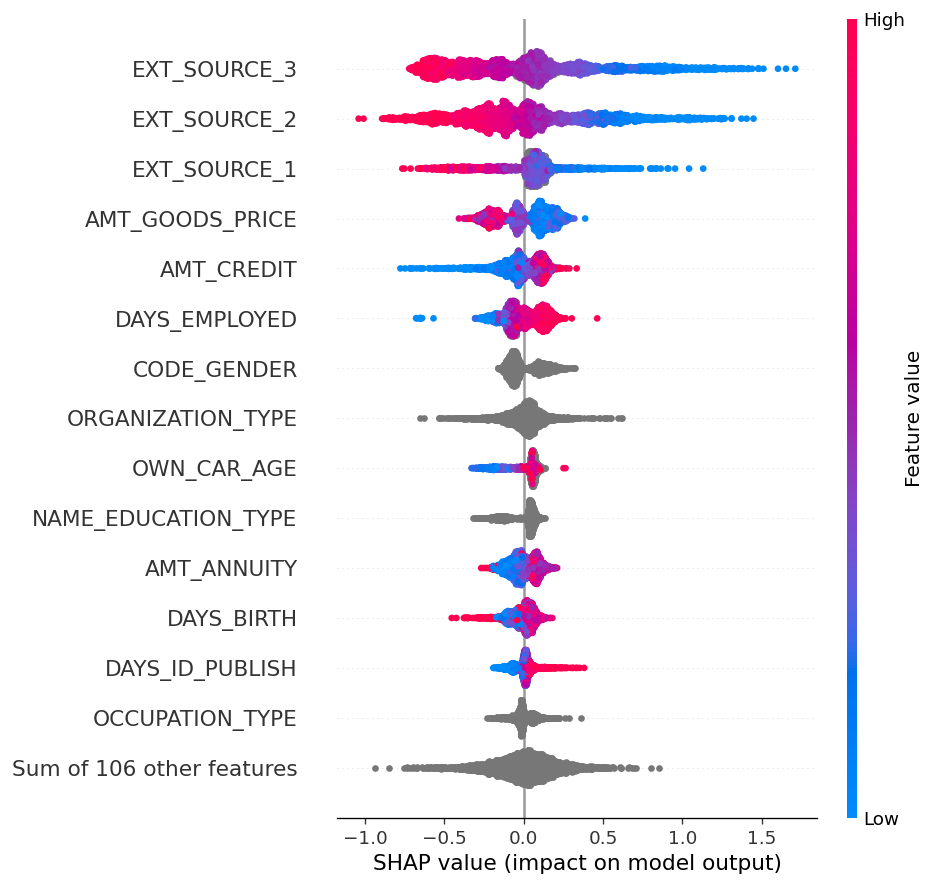
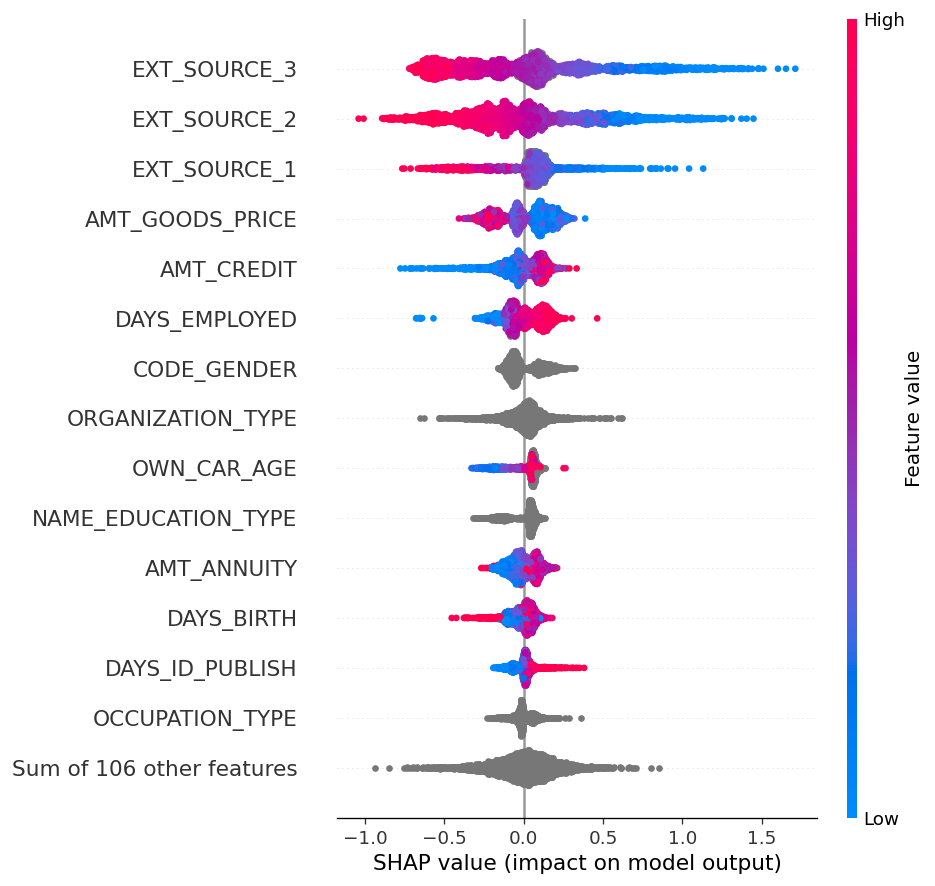
feat(api): FastAPI predict endpoint with PD, decision, reason codes and ECL

diff --git a/api/main.py b/api/main.py
@@ -1,0 +1,125 @@
+"""FastAPI credit-decision service: POST /predict scores one applicant end to end.
+
+Model artifacts (the trained LightGBM model, its category encodings, and training-set medians
+for reason-code phrasing) are loaded once at startup, not per request — retraining or reloading
+happens by restarting the service, not on the request path.
+"""
+
+from contextlib import asynccontextmanager
+
+import joblib
+import numpy as np
+import pandas as pd
+import shap
+from fastapi import FastAPI, HTTPException
+
+from api.schemas import ApplicantRequest, PredictResponse
+from src.config import (
+    CAT_DTYPES_PATH,
+    DECISION_THRESHOLD,
+    DEFAULT_LGD,
+    LGBM_MODEL_PATH,
+    TRAIN_MEDIANS_PATH,
+)
+from src.explain import reason_codes
+
+REQUIRED_ARTIFACTS = [LGBM_MODEL_PATH, TRAIN_MEDIANS_PATH, CAT_DTYPES_PATH]
+
+state: dict = {}
+
+
+@asynccontextmanager
+async def lifespan(app: FastAPI):
+    missing = [p for p in REQUIRED_ARTIFACTS if not p.exists()]
+    if missing:
+        raise RuntimeError(
+            f"Missing model artifacts: {[str(p) for p in missing]}. "
+            "Run `python -m src.train_lgbm` first."
+        )
+
+    state["model"] = joblib.load(LGBM_MODEL_PATH)
+    state["train_medians"] = joblib.load(TRAIN_MEDIANS_PATH)
+    state["cat_dtypes"] = joblib.load(CAT_DTYPES_PATH)
+    state["feature_names"] = state["model"].feature_name_
+    state["explainer"] = shap.TreeExplainer(state["model"])
+
+    yield
+    state.clear()
+
+
+app = FastAPI(
+    title="Credit Risk & IFRS 9 Engine",
+    description="PD scoring, SHAP reason codes, and IFRS 9 ECL for a single loan applicant.",
+    version="1.0.0",
+    lifespan=lifespan,
+)
+
+
+def applicant_to_row(req: ApplicantRequest, feature_names: list[str], cat_dtypes: dict) -> pd.DataFrame:
+    """Map the applicant form onto the model's raw Home Credit column names.
+
+    Fields the form doesn't ask for (most notably EXT_SOURCE_1/2/3 — external credit-bureau
+    scores a real system would fetch from a bureau API at application time, not ask the applicant
+    for) are left as NaN. LightGBM was trained on genuinely incomplete data and handles this via
+    its learned default split direction, the same as any other missing value.
+    """
+    raw = {
+        "NAME_CONTRACT_TYPE": req.contract_type,
+        "DAYS_BIRTH": -req.age_years * 365.25,
+        "DAYS_EMPLOYED": -req.years_employed * 365.25 if req.years_employed is not None else np.nan,
+        "AMT_INCOME_TOTAL": req.income_total,
+        "AMT_CREDIT": req.credit_amount,
+        "AMT_ANNUITY": req.annuity,
+        "AMT_GOODS_PRICE": req.goods_price if req.goods_price is not None else req.credit_amount,
+        "CODE_GENDER": req.gender,
+        "FLAG_OWN_CAR": "Y" if req.owns_car else "N",
+        "FLAG_OWN_REALTY": "Y" if req.owns_realty else "N",
+        "CNT_CHILDREN": req.num_children,
+        "CNT_FAM_MEMBERS": req.family_members,
+        "NAME_EDUCATION_TYPE": req.education,
+        "NAME_INCOME_TYPE": req.income_type,
+        "NAME_FAMILY_STATUS": req.family_status,
+        "OCCUPATION_TYPE": req.occupation,
+        "ORGANIZATION_TYPE": req.organization_type,
+        "REGION_POPULATION_RELATIVE": req.region_population_relative
+        if req.region_population_relative is not None
+        else np.nan,
+        "OWN_CAR_AGE": req.own_car_age if req.own_car_age is not None else np.nan,
+    }
+    row = pd.DataFrame([raw]).reindex(columns=feature_names)
+    for col, dtype in cat_dtypes.items():
+        row[col] = row[col].astype(dtype)
+    return row
+
+
+@app.get("/health")
+def health() -> dict:
+    return {"status": "ok", "model_loaded": "model" in state}
+
+
+@app.post("/predict", response_model=PredictResponse)
+def predict(req: ApplicantRequest) -> PredictResponse:
+    if "model" not in state:
+        raise HTTPException(status_code=503, detail="Model not loaded")
+
+    row = applicant_to_row(req, state["feature_names"], state["cat_dtypes"])
+    pd_estimate = float(state["model"].predict_proba(row)[0, 1])
+    decision = "decline" if pd_estimate >= DECISION_THRESHOLD else "approve"
+
+    explanation = state["explainer"](row)
+    shap_row = pd.Series(explanation.values[0], index=row.columns)
+    feature_row = row.iloc[0]
+    codes = reason_codes(shap_row, feature_row, state["train_medians"], top_n=3)
+
+    # a brand-new application has no origination-time PD to compare against, so it's Stage 1 by
+    # definition (see src/ecl.py for the staged, portfolio-level version used on existing loans)
+    ecl = pd_estimate * DEFAULT_LGD * req.credit_amount
+
+    return PredictResponse(
+        probability_of_default=round(pd_estimate, 4),
+        decision=decision,
+        decision_threshold=DECISION_THRESHOLD,
+        reason_codes=codes,
+        expected_credit_loss=round(ecl, 2),
+        lgd_assumption=DEFAULT_LGD,
+    )

diff --git a/tests/test_api.py b/tests/test_api.py
@@ -1,0 +1,97 @@
+import pytest
+from fastapi.testclient import TestClient
+
+from api.main import app
+
+VALID_APPLICANT = {
+    "age_years": 35,
+    "years_employed": 5,
+    "income_total": 180_000,
+    "credit_amount": 450_000,
+    "annuity": 22_500,
+    "gender": "F",
+    "owns_car": True,
+    "owns_realty": True,
+    "num_children": 1,
+    "family_members": 3,
+    "education": "Higher education",
+}
+
+
+@pytest.fixture
+def client():
+    with TestClient(app) as c:  # runs the lifespan, so the model actually loads
+        yield c
+
+
+def test_health_reports_model_loaded(client: TestClient) -> None:
+    response = client.get("/health")
+    assert response.status_code == 200
+    assert response.json() == {"status": "ok", "model_loaded": True}
+
+
+def test_predict_returns_all_expected_fields(client: TestClient) -> None:
+    response = client.post("/predict", json=VALID_APPLICANT)
+    assert response.status_code == 200
+
+    body = response.json()
+    assert 0.0 <= body["probability_of_default"] <= 1.0
+    assert body["decision"] in ("approve", "decline")
+    assert body["decision_threshold"] == pytest.approx(0.08)
+    assert len(body["reason_codes"]) == 3
+    assert body["expected_credit_loss"] >= 0
+    assert body["lgd_assumption"] == pytest.approx(0.45)
+
+
+def test_predict_decision_matches_threshold(client: TestClient) -> None:
+    response = client.post("/predict", json=VALID_APPLICANT)
+    body = response.json()
+
+    expected_decision = "decline" if body["probability_of_default"] >= body["decision_threshold"] else "approve"
+    assert body["decision"] == expected_decision
+
+
+def test_predict_riskier_profile_scores_higher_pd(client: TestClient) -> None:
+    """Young, no employment history, large loan relative to income vs an established applicant —
+    the riskier profile should score a higher PD. A real behavioural check, not just a shape check."""
+    safe_applicant = {**VALID_APPLICANT, "age_years": 45, "years_employed": 15, "income_total": 400_000}
+    risky_applicant = {
+        **VALID_APPLICANT,
+        "age_years": 21,
+        "years_employed": None,
+        "income_total": 60_000,
+        "credit_amount": 900_000,
+    }
+
+    safe_pd = client.post("/predict", json=safe_applicant).json()["probability_of_default"]
+    risky_pd = client.post("/predict", json=risky_applicant).json()["probability_of_default"]
+
+    assert risky_pd > safe_pd
+
+
+def test_predict_ecl_equals_pd_times_lgd_times_credit_amount(client: TestClient) -> None:
+    response = client.post("/predict", json=VALID_APPLICANT)
+    body = response.json()
+
+    # probability_of_default in the response is rounded to 4dp before this recomputation, so the
+    # tolerance has to cover that rounding's worst case: 0.5e-4 x lgd x credit_amount ~= R10
+    expected_ecl = body["probability_of_default"] * body["lgd_assumption"] * VALID_APPLICANT["credit_amount"]
+    assert body["expected_credit_loss"] == pytest.approx(expected_ecl, abs=15.0)
+
+
+def test_predict_rejects_missing_required_field(client: TestClient) -> None:
+    incomplete = {k: v for k, v in VALID_APPLICANT.items() if k != "income_total"}
+    response = client.post("/predict", json=incomplete)
+    assert response.status_code == 422
+
+
+def test_predict_rejects_negative_credit_amount(client: TestClient) -> None:
+    bad_applicant = {**VALID_APPLICANT, "credit_amount": -1000}
+    response = client.post("/predict", json=bad_applicant)
+    assert response.status_code == 422
+
+
+def test_predict_rejects_invalid_gender_literal(client: TestClient) -> None:
+    bad_applicant = {**VALID_APPLICANT, "gender": "X"}
+    response = client.post("/predict", json=bad_applicant)
+    assert response.status_code == 422

diff --git a/api/schemas.py b/api/schemas.py
@@ -1,0 +1,73 @@
+"""Request/response schemas for POST /predict.
+
+The applicant form asks for the ~20 fields that actually drive the model (see
+reports/scorecard.md and reports/figures/shap_bar.png for which ones) rather than all 122 raw
+Home Credit columns — anything not asked for is treated as missing, which LightGBM handles
+natively since it was trained on genuinely incomplete data.
+"""
+
+from typing import Literal
+
+from pydantic import BaseModel, Field
+
+
+class ApplicantRequest(BaseModel):
+    contract_type: Literal["Cash loans", "Revolving loans"] = "Cash loans"
+    age_years: float = Field(..., ge=18, le=100, description="Applicant's age in years")
+    years_employed: float | None = Field(
+        None, ge=0, le=60, description="Years in current employment; omit if not currently employed"
+    )
+    income_total: float = Field(..., gt=0, description="Annual income, rand")
+    credit_amount: float = Field(..., gt=0, description="Requested loan amount, rand")
+    annuity: float = Field(..., gt=0, description="Monthly repayment (annuity), rand")
+    goods_price: float | None = Field(None, gt=0, description="Price of goods financed, if applicable")
+    gender: Literal["M", "F"] = Field(..., description="As recorded on the application")
+    owns_car: bool = False
+    owns_realty: bool = False
+    num_children: int = Field(0, ge=0, le=20)
+    family_members: int = Field(1, ge=1, le=20)
+    education: str = Field(
+        "Secondary / secondary special",
+        description="e.g. 'Higher education', 'Secondary / secondary special'",
+    )
+    income_type: str = Field("Working", description="e.g. 'Working', 'Commercial associate', 'Pensioner'")
+    family_status: str = Field("Married", description="e.g. 'Married', 'Single / not married'")
+    occupation: str | None = Field(None, description="e.g. 'Laborers', 'Sales staff', 'Managers'")
+    organization_type: str | None = Field(None, description="Employer type, e.g. 'Self-employed'")
+    region_population_relative: float | None = Field(
+        None, ge=0, le=1, description="Normalised population density of home region; omit if unknown"
+    )
+    own_car_age: float | None = Field(None, ge=0, le=80)
+
+    model_config = {
+        "json_schema_extra": {
+            "example": {
+                "contract_type": "Cash loans",
+                "age_years": 35,
+                "years_employed": 5,
+                "income_total": 180000,
+                "credit_amount": 450000,
+                "annuity": 22500,
+                "goods_price": 450000,
+                "gender": "F",
+                "owns_car": True,
+                "owns_realty": True,
+                "num_children": 1,
+                "family_members": 3,
+                "education": "Higher education",
+                "income_type": "Working",
+                "family_status": "Married",
+                "occupation": "Core staff",
+                "organization_type": "Business Entity Type 3",
+            }
+        }
+    }
+
+
+class PredictResponse(BaseModel):
+    probability_of_default: float
+    decision: Literal["approve", "decline"]
+    decision_threshold: float
+    reason_codes: list[str]
+    expected_credit_loss: float = Field(..., description="12-month ECL in rand: PD x LGD x EAD")
+    lgd_assumption: float

diff --git a/src/train_lgbm.py b/src/train_lgbm.py
@@ -22,12 +22,14 @@ from sklearn.model_selection import StratifiedKFold
 
 from src.baseline import run_and_log as run_baseline
 from src.config import (
+    CAT_DTYPES_PATH,
     LGBM_MODEL_PATH,
     MLFLOW_EXPERIMENT_NAME,
     MODELS_DIR,
     RANDOM_SEED,
     REPORTS_DIR,
     TARGET_COL,
+    TRAIN_MEDIANS_PATH,
 )
 from src.data_loader import load_application_data
 from src.preprocessing import split_data
@@ -162,6 +164,12 @@ def main() -> None:
 
     MODELS_DIR.mkdir(parents=True, exist_ok=True)
     joblib.dump(model, LGBM_MODEL_PATH)
+    joblib.dump(train_X.select_dtypes("number").median(), TRAIN_MEDIANS_PATH)
+    # persist the exact category boundaries LightGBM was trained on — encoding a category column
+    # against a *different* set of categories at inference time silently shifts every code and
+    # produces wrong predictions with no error, so inference must reuse these dtypes exactly.
+    cat_dtypes = {col: train_X[col].dtype for col in train_X.select_dtypes("category").columns}
+    joblib.dump(cat_dtypes, CAT_DTYPES_PATH)
     print(f"saved tuned model to {LGBM_MODEL_PATH}")
 
     baseline_metrics, _model, _pred = run_baseline(train, val)

diff --git a/src/explain.py b/src/explain.py
@@ -26,6 +26,7 @@ SHAP_SAMPLE_SIZE = 3000  # full validation set (61k rows) isn't needed for a sta
 # Anything not listed here falls back to the raw column name — this covers what actually mattered,
 # not a hand-authored translation of all 122 raw columns.
 FEATURE_DESCRIPTIONS = {
+    "NAME_CONTRACT_TYPE": "loan type (cash vs revolving)",
     "EXT_SOURCE_1": "external credit bureau score (source 1)",
     "EXT_SOURCE_2": "external credit bureau score (source 2)",
     "EXT_SOURCE_3": "external credit bureau score (source 3)",
@@ -92,7 +93,10 @@ def reason_codes(
         value = feature_row[feat]
         desc = humanize_feature(feat)
 
-        if isinstance(value, int | float | np.integer | np.floating) and feat in train_medians.index:
+        if pd.isna(value):
+            # e.g. a bureau score the applicant's file doesn't have yet — "low" would be a lie
+            clause = f"missing {desc}"
+        elif isinstance(value, int | float | np.integer | np.floating) and feat in train_medians.index:
             qualifier = "high" if value > train_medians[feat] else "low"
             clause = f"{qualifier} {desc}"
         else:

diff --git a/tests/test_explain.py b/tests/test_explain.py
@@ -1,3 +1,4 @@
+import numpy as np
 import pandas as pd
 import pytest
 
@@ -50,6 +51,18 @@ def test_reason_codes_falls_back_to_value_for_unknown_medians(train_medians: pd.
     codes = reason_codes(shap_row, feature_row, train_medians, top_n=1)
 
     assert "unknown column of some_category" in codes[0].lower()
+
+
+def test_reason_codes_flags_missing_value_instead_of_calling_it_low(train_medians: pd.Series) -> None:
+    """A new applicant with no bureau file yet has NaN EXT_SOURCE_3, not a genuinely low score —
+    saying 'low' would be a false, and consequential, claim about a real person's credit file."""
+    shap_row = pd.Series({"EXT_SOURCE_3": 0.5})
+    feature_row = pd.Series({"EXT_SOURCE_3": np.nan})
+
+    codes = reason_codes(shap_row, feature_row, train_medians, top_n=1)
+
+    assert "missing external credit bureau score" in codes[0].lower()
+    assert "low" not in codes[0].lower()
 
 
 def test_humanize_feature_uses_dictionary_then_falls_back() -> None:

diff --git a/src/config.py b/src/config.py
@@ -11,6 +11,13 @@ MODELS_DIR = ROOT / "models"
 
 RAW_TRAIN_PATH = DATA_DIR / "application_train.csv"
 LGBM_MODEL_PATH = MODELS_DIR / "lgbm_model.joblib"
+TRAIN_MEDIANS_PATH = MODELS_DIR / "train_medians.joblib"
+CAT_DTYPES_PATH = MODELS_DIR / "category_dtypes.joblib"
+
+# approve/decline cutoff for the API — set to the population base default rate (8.1%, see
+# reports/eda_summary.md); a real deployment would tune this against a target approval rate or
+# expected loss budget, but a round, explainable number beats an unexplained one for a demo.
+DECISION_THRESHOLD = 0.08
 
 RANDOM_SEED = 42
 TARGET_COL = "TARGET"
